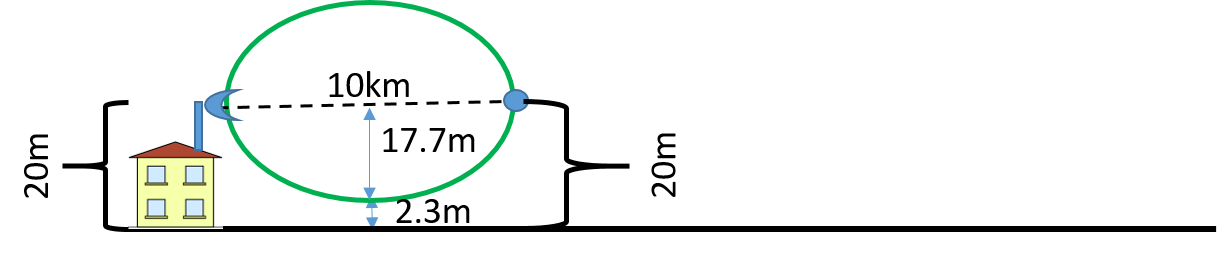
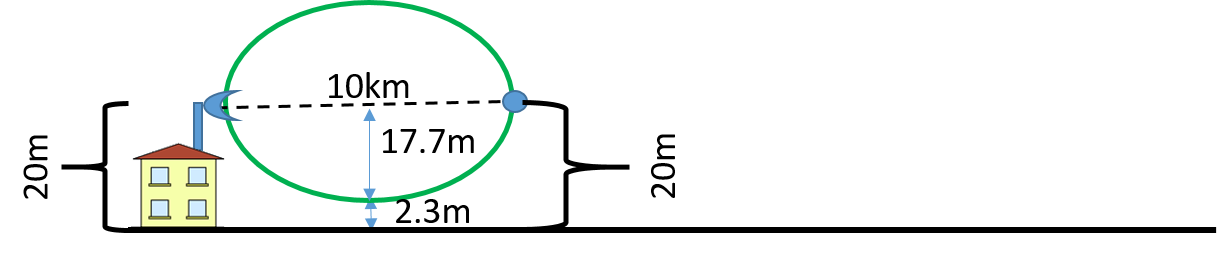
fresnel

diff --git a/doc/report/sections/tele/fresnel.tex b/doc/report/sections/tele/fresnel.tex
@@ -17,8 +17,8 @@ Figure \ref{fig:fresnel_zones} illustrates the first Fresnel zone between the an
 
 \begin{figure}[H]
 	\centering
-	\includegraphics[scale=0.70]{figures/fresnel_zone.jpg}
-	\caption{Fresnel zone between antennas A and B. (\hl{refimportant})}
+	\includegraphics[scale=0.60]{figures/fresnel_zone.png}
+	\caption{Fresnel zone between antennas A and B.}
 	\label{fig:fresnel_zones}
 \end{figure} 
 
